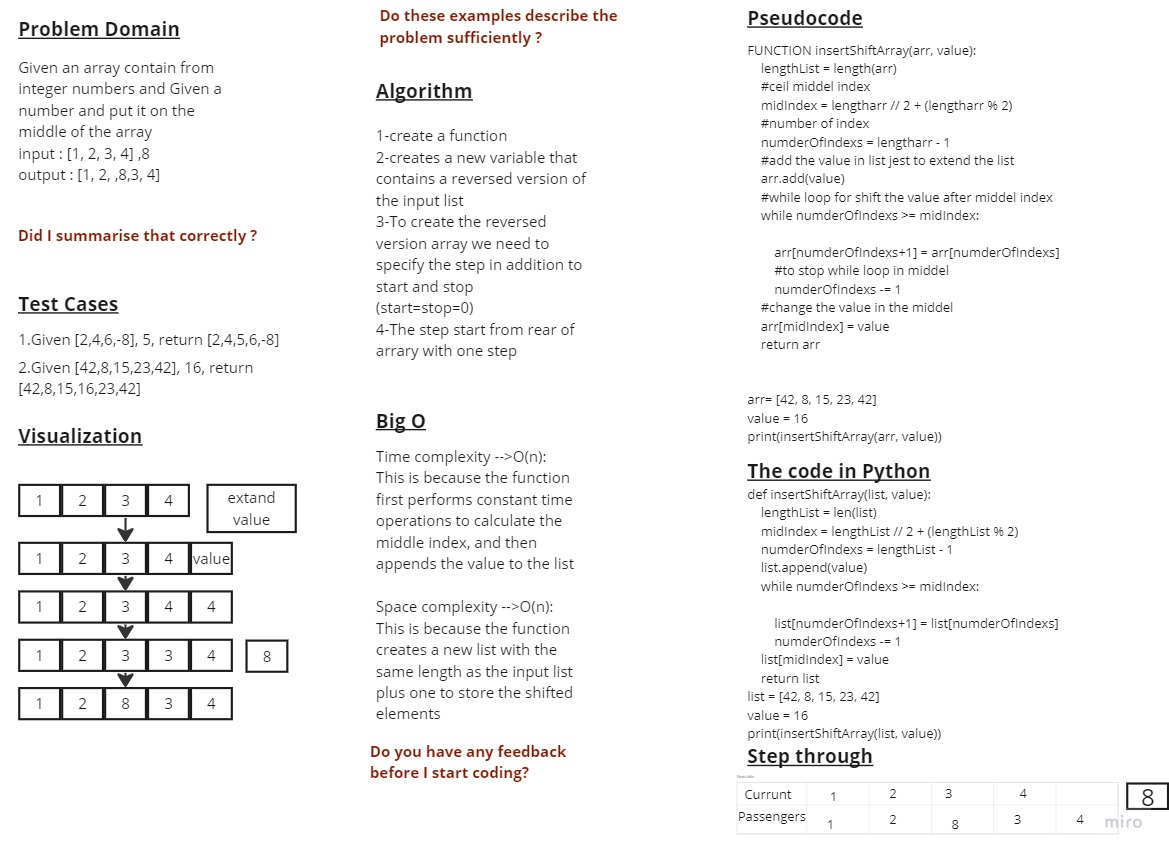
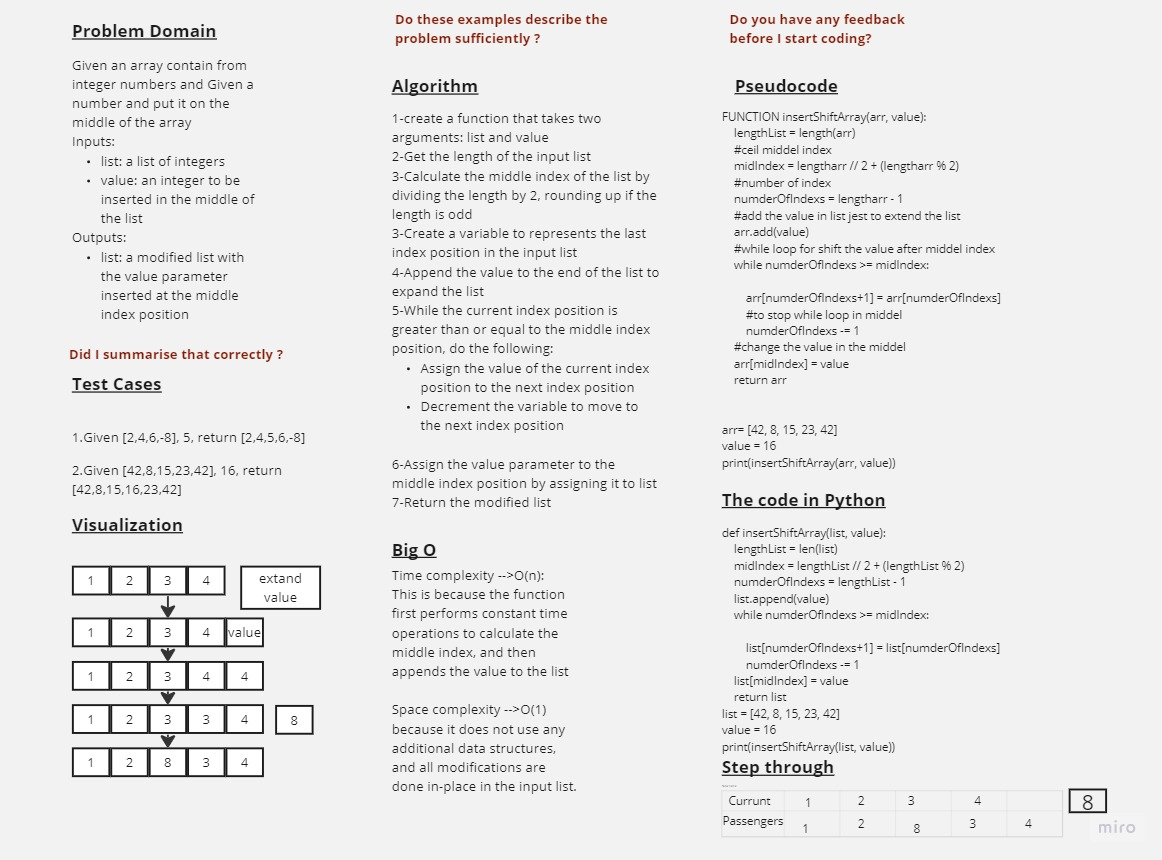
update the README and update the whiteboard

diff --git a/array-insert-shift/README.md b/array-insert-shift/README.md
@@ -1,0 +1,50 @@
+# Insert Shift Array
+
+## Whiteboard Process
+![WhiteboardWorkflow01](../img/whiteboard%20array-insert-shift.jpg)
+
+## Approach & Efficiency
+Approach:
+
+1.Get the length of the input list.
+2.Calculate the middle index of the list.
+3.Calculate the number of indexes in the list.
+4.Append the given value to the end of the list to extend the list.
+5.While there are indexes after the middle index:
+  1.Shift the element to the right by one position.
+  2.Set the value at the middle index to the given value.
+6.Return the modified list.
+
+Efficiency:
+
+The time complexity of this function is O(n) because in the worst-case scenario, it needs to shift all the elements after the middle index to the right by one position.
+The space complexity of this function is O(1) because it does not use any additional data structures, and all modifications are done in-place in the input list.
+
+## Solution
+```
+# Define the function
+def insertShiftArray(list, value):
+    #length of list
+    lengthList = len(list)
+    #ceil middel index
+    midIndex = lengthList // 2 + (lengthList % 2)
+    #number of index
+    numderOfIndexs = lengthList - 1
+    #add the value in list jest to extend the list
+    list.append(value)
+    #while loop for shift the value after middel index
+    while numderOfIndexs >= midIndex:
+        
+        list[numderOfIndexs+1] = list[numderOfIndexs]
+        #to stop while loop in middel
+        numderOfIndexs -= 1
+    #change the value in the middel    
+    list[midIndex] = value
+
+    return list
+
+# Example usage
+list = [42, 8, 15, 23, 42]
+value = 16
+print(insertShiftArray(list, value)) # Output: [42, 8, 15, 16, 23, 42]
+```

diff --git a/README.md b/README.md
@@ -1,6 +1,6 @@
 # data-structures-and-algorithms
 
-| Title              | Link 
-| -----------        | -----------                                                          |
-| reverse Array      | [reverse Array](./array-reverse/array_reverse.md)                    |
-| Insert Shift Array | [Insert Shift Array](./array-insert-shift/array-insert-shift.md)     |
+| Title                     | Link 
+| -----------               | -----------                                                          |
+| README reverse Array      | [reverse Array](./array-reverse/array_reverse.md)                    |
+| README Insert Shift Array | [Insert Shift Array](./array-insert-shift/array-insert-shift.md)     |
